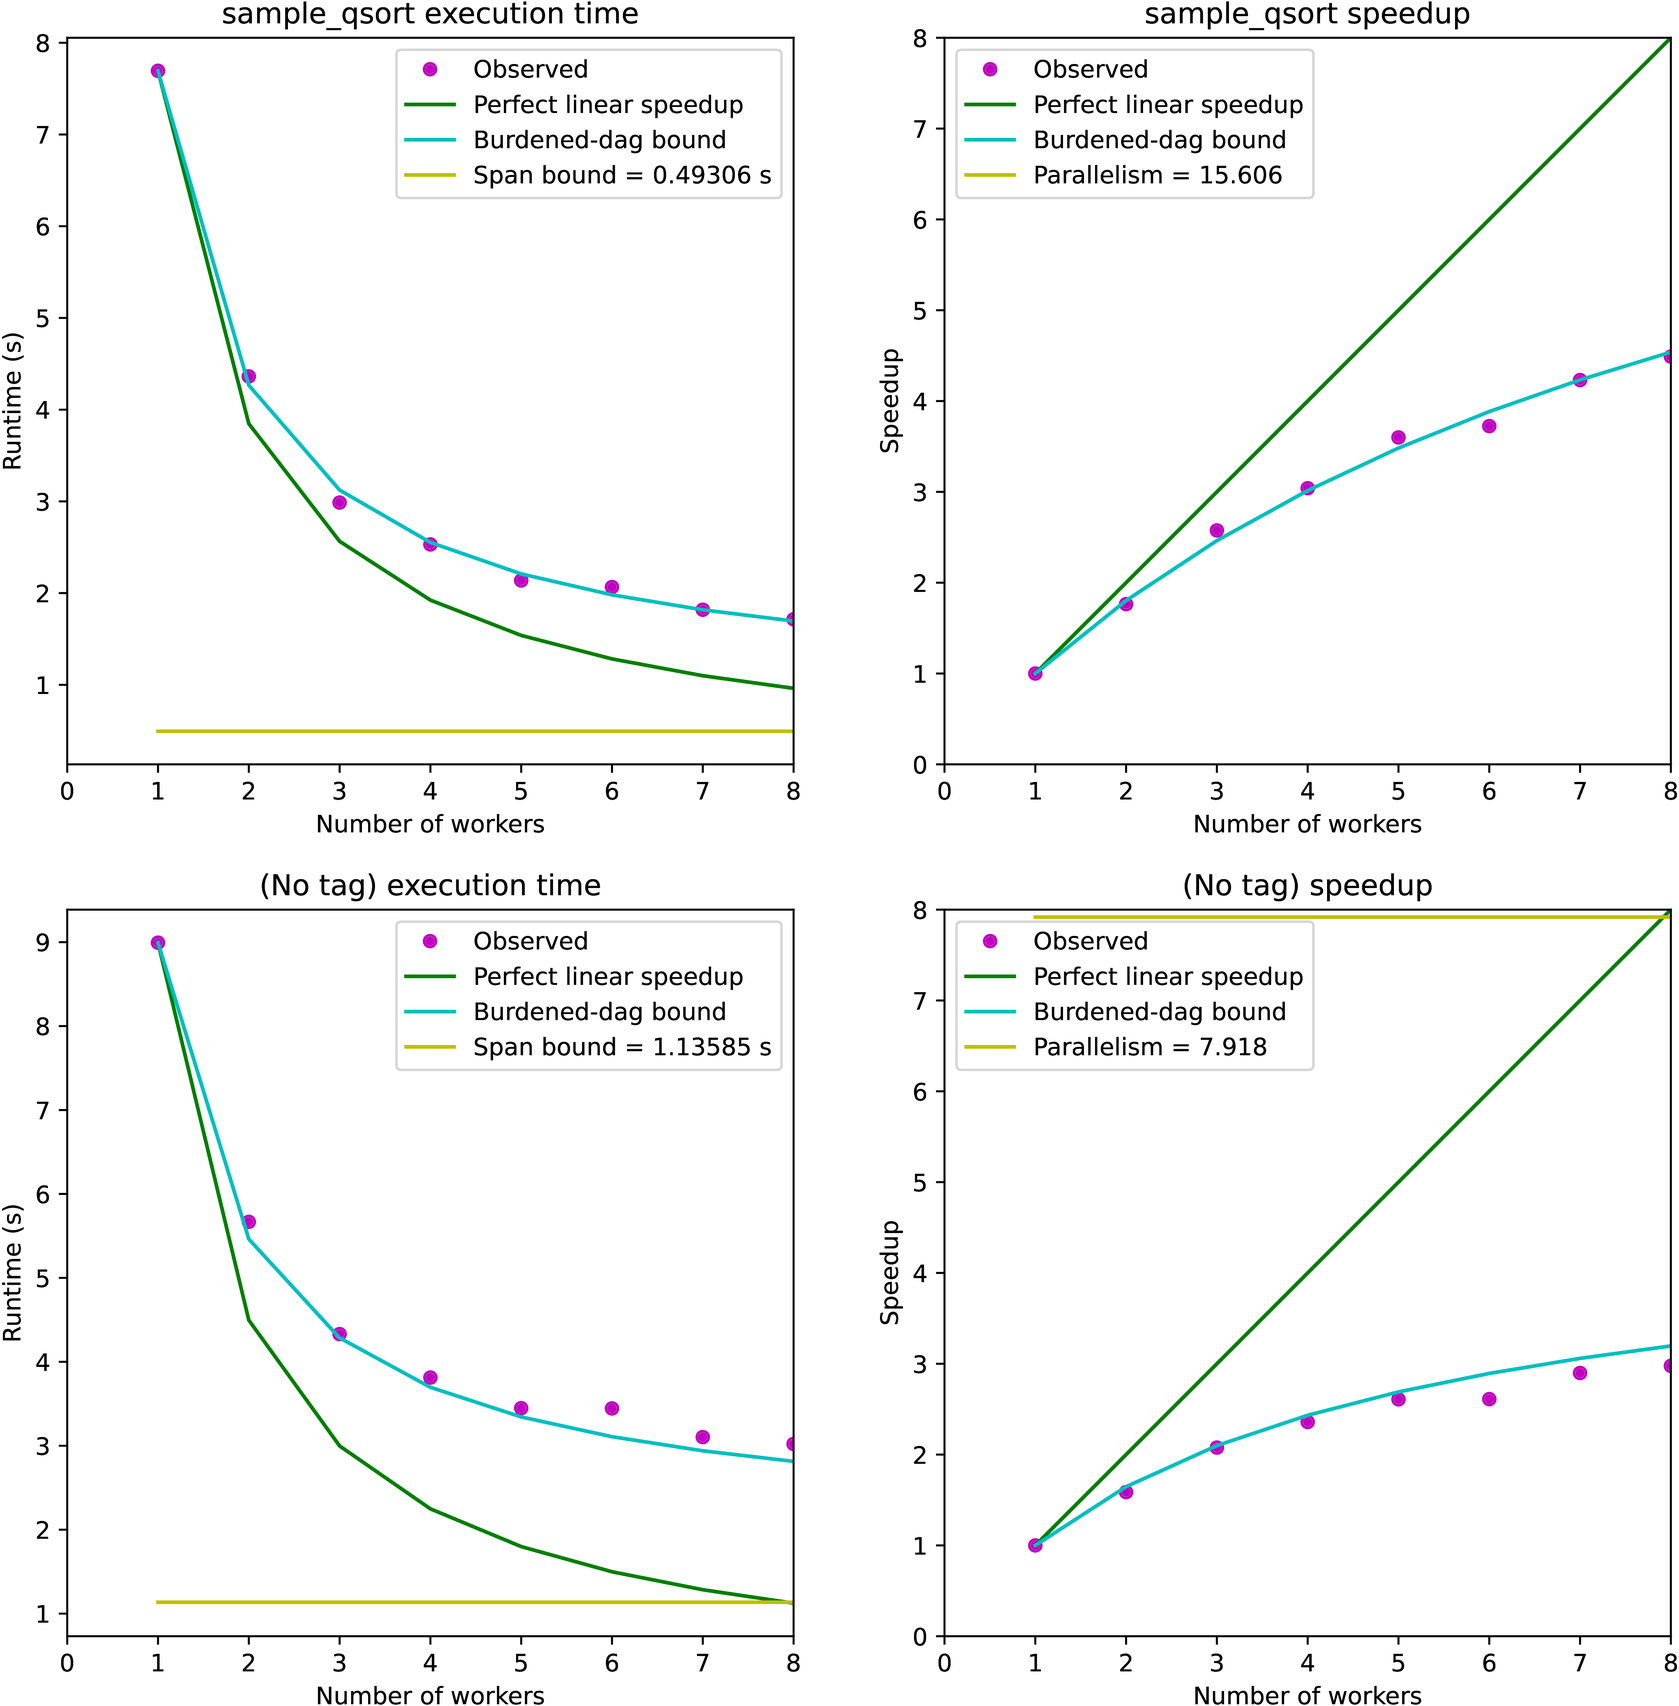
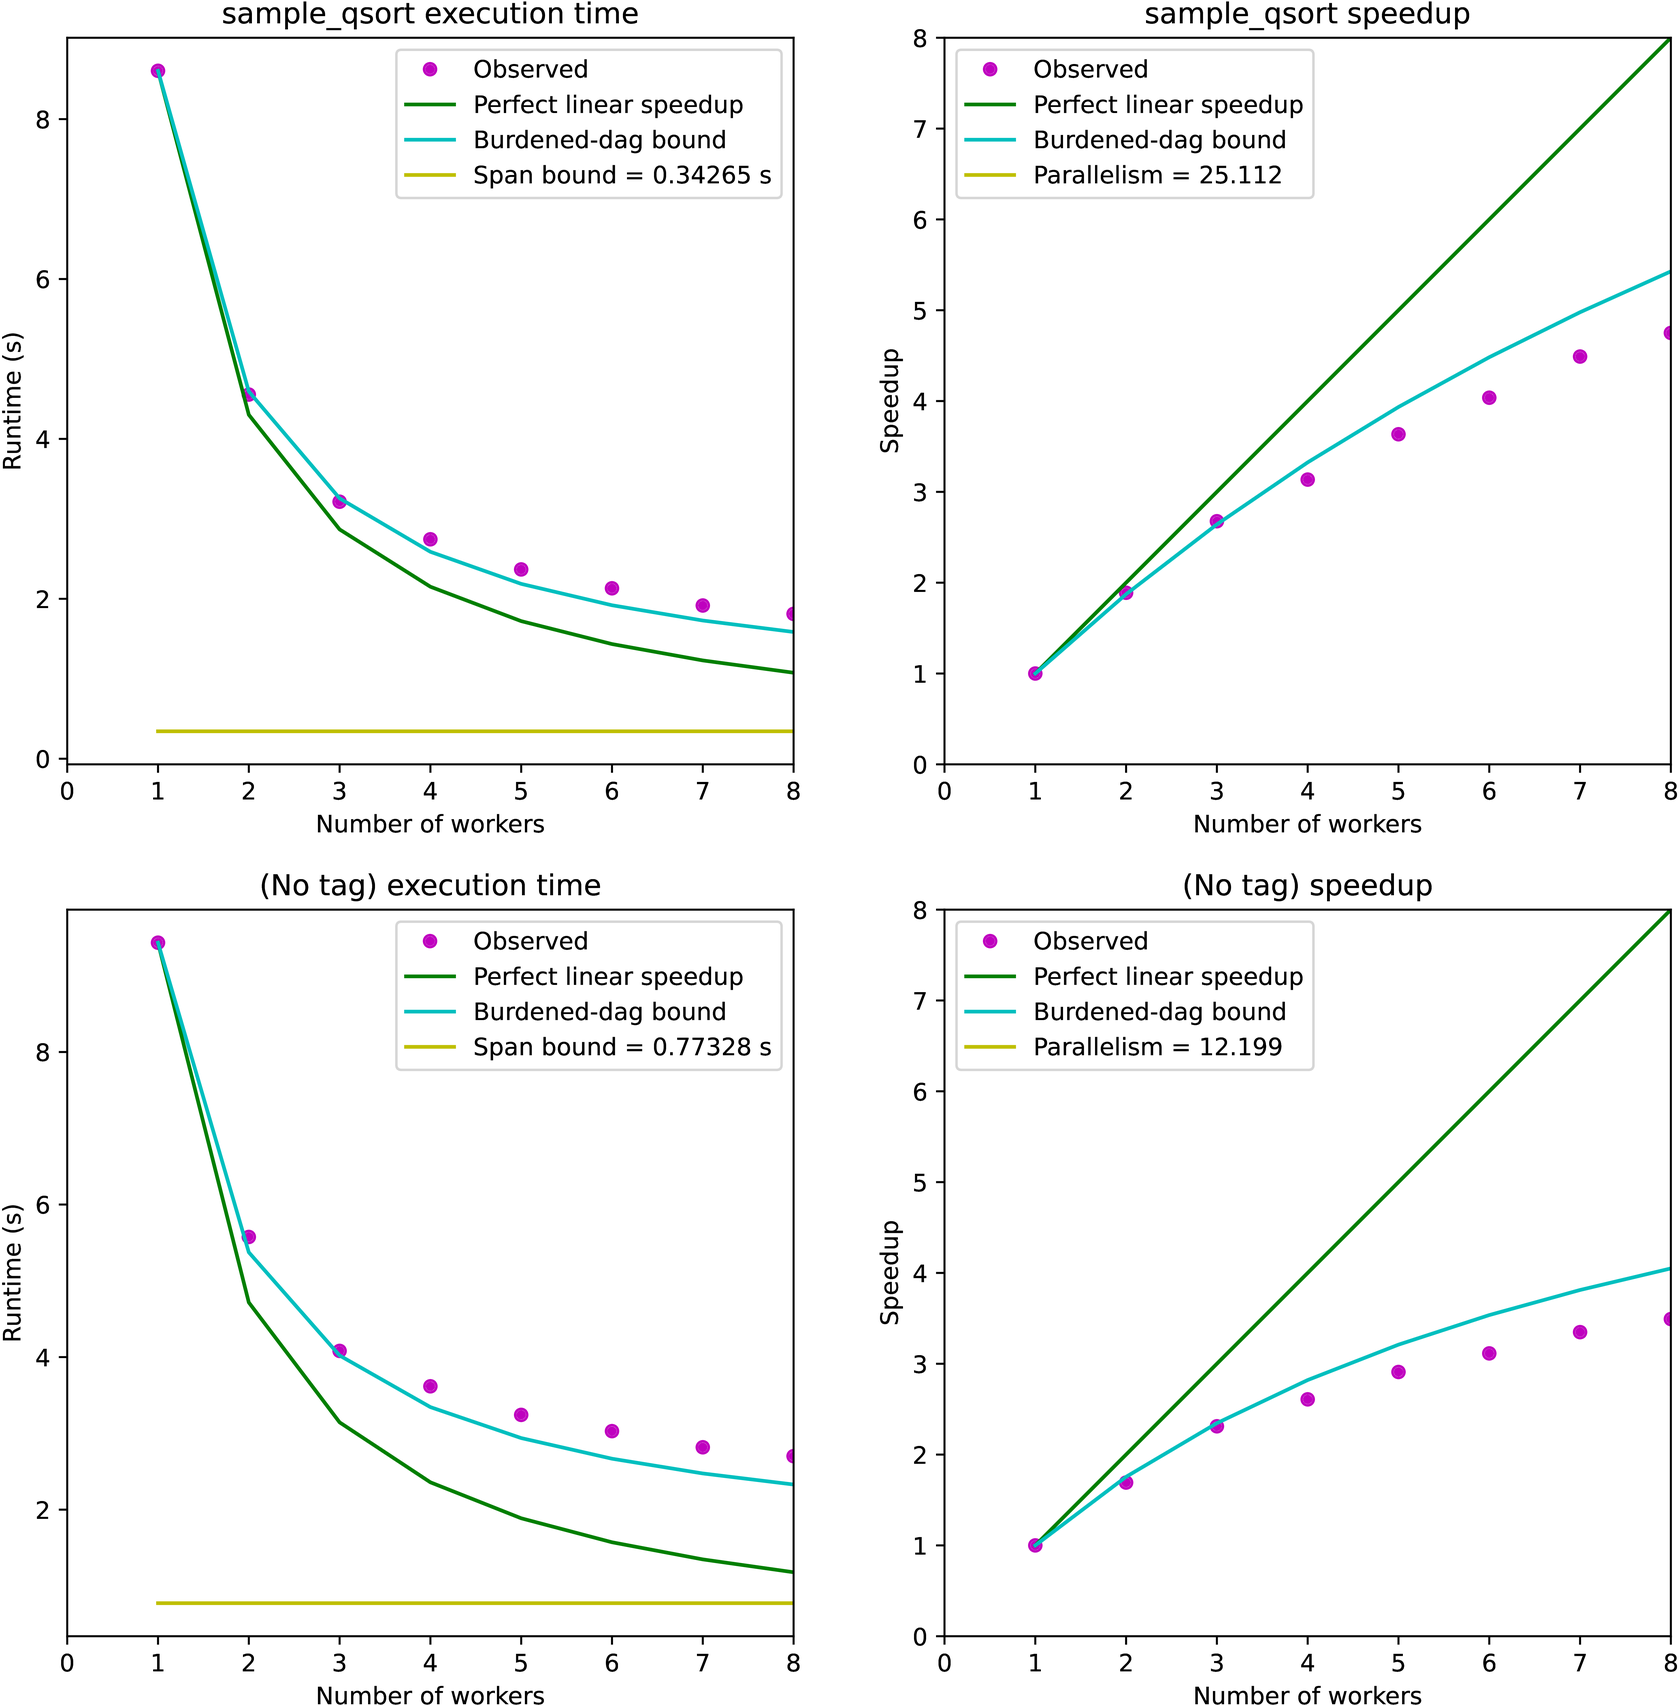
[Cilkscale] Revise user's guide
- Minor edits in initial sections for clarity
- Remove some distracting comments
- Rephrase discussion on Cilkscale Python script to avoid ambiguity on what
  "benchmarking" means
- Regenerate final Cilkscale table and plots, and update "insights" accordingly

diff --git a/src/doc/users-guide/cilkscale.md b/src/doc/users-guide/cilkscale.md
@@ -28,7 +28,7 @@ end of this guide, you will know how to generate performance and scalability
 tables and plots like the ones shown below and have a basic understanding of
 how to use them to diagnose parallel performance limitations of your
 application.  For details on the Cilkscale components, user options, and output
-information, see the [Cilkscale reference guide](/doc/reference/cilkscale).
+information, see the [Cilkscale reference page](/doc/reference/cilkscale).
 
 {% img "/img/qsort-cilkscale-scalability-plots-sample-qsort-only.png", "1000" %}
 
@@ -63,8 +63,8 @@ simple program, `qsort.cpp`, is shown below.
 ```
 
 The `qsort.cpp` program simply generates a vector of pseudorandom numbers,
-sorts it with the `sample_qsort()` function, and verifies the result.  We can
-compile and run it as follows.
+sorts it in parallel with the `sample_qsort()` function, and verifies the
+result.  We can compile and run it as follows.
 
 ```shell-session
 $ /opt/opencilk/bin/clang++ qsort.cpp -fopencilk -O3 -o qsort
@@ -79,8 +79,10 @@ Sort succeeded
 Cilkscale instruments your Cilk program to collect performance measurements
 during its execution.  Cilkscale instrumentation operates in one of two modes:
 
-- _benchmarking_ mode: Cilkscale measures the wall-clock execution time of your program. 
-- _work/span analysis_ mode: Cilkscale measures the {% defn "work" %}, {% defn "span" %}, and {% defn "parallelism" %} of the instrumented program.
+- _Benchmarking_ mode: Cilkscale measures the wall-clock execution time of your
+  program.
+- _Work/span analysis_ mode: Cilkscale measures the {% defn "work" %}, {% defn
+  "span" %}, and {% defn "parallelism" %} of your program.
 
 In either mode, you can use Cilkscale with two simple steps:
 
@@ -88,14 +90,16 @@ In either mode, you can use Cilkscale with two simple steps:
    flag](/doc/reference/cilkscale/#compiler-options-for-cilkscale-instrumentation)
    to the OpenCilk compiler when you compile and link your program.  The result
    is a Cilkscale-instrumented binary.
-2. Run the instrumented binary and observe the performance
-   measurements that Cilkscale collects and reports to the standard output. Your program otherwise runs as it normally would. 
-   (To output the report to a file, set the
+2. Run the instrumented binary.  Cilkscale collects performance measurements
+   and prints them to the standard output.  (To output the report to a file,
+   set the
    [`CILKSCALE_OUT`](/doc/reference/cilkscale/#cilkscale-report-output-file)
-   environment variable.)
+   environment variable.)  Your program otherwise runs as it normally would.
 
-By default, Cilkscale only reports results for whole-program execution.
-For fine-grained analyses of specific sub-computations of your program, see the next section.
+By default, Cilkscale only reports performance results for whole-program
+execution.  We will see how to perform fine-grained analyses of specific
+sub-computations in the next section, after we show how to use Cilkscale in
+benchmarking and work/span analysis mode.
 
 ### Benchmarking instrumentation
 
@@ -106,8 +110,8 @@ To benchmark your application with Cilkscale, pass the
 $ /opt/opencilk/bin/clang++ qsort.cpp -fopencilk -fcilktool=cilkscale-benchmark -O3 -o qsort_cs_bench
 ```
 
-Running the instrumented binary now produces the same output
-as before, followed by two lines with the timing results in [CSV
+Running the instrumented binary now produces the program output as before,
+followed by two lines with timing results in [CSV
 format](https://en.wikipedia.org/wiki/Comma-separated_values):
 
 ```shell-session
@@ -118,10 +122,9 @@ tag,time (seconds)
 ```
 
 The report table above contains a single, untagged row with the execution time
-for the entire program.  Below, we will see [how to use the Cilkscale
-API](#cilkscale-api-for-fine-grained-analysis-of-parallel-regions) to benchmark
-and analyze specific code regions, which would appear as additional rows in the
-Cilkscale report table.
+for the entire program.  We will see shortly that if we use the Cilkscale API
+for [fine-grained analysis](#fine-grained-analysis), then the report table will
+contain additional rows.
 
 ### Work/span analysis instrumentation
 
@@ -132,15 +135,8 @@ the `-fcilktool=cilkscale` flag to the OpenCilk compiler:
 $ /opt/opencilk/bin/clang++ qsort.cpp -fopencilk -fcilktool=cilkscale -O3 -o qsort_cs
 ```
 
-Measurements of work, span, and parallelism 
-depend on your program's input and {% defn "logical parallelism"
-%} but not on the number of processors on which it is run.  Cilkscale collects
-performance measurements during runtime and uses the {% defn "parallel trace"
-%} of your program for its analysis.  The [Cilkscale reference guide](/doc/reference/cilkscale/#workspan-analysis-measurements-reported-by-cilkscale)
-describes the specific quantities reported by Cilkscale.
-
-The Cilkscale work/span analysis report is printed in CSV format, similarly to
-the the Cilkscale benchmarking report but with different fields or columns:
+When you run the instrumented binary, the program output is followed by the
+Cilkscale work/span analysis report in CSV format:
 
 ```shell-session
 $ ./qsort_cs 100000000
@@ -149,6 +145,12 @@ tag,work (seconds),span (seconds),parallelism,burdened_span (seconds),burdened_p
 ,23.661,2.19196,10.7944,2.19226,10.793
 ```
 
+The work, span, and parallelism measurements in the report depend on your
+program's input and {% defn "logical parallelism" %} but not on the number of
+processors on which it is run.  The Cilkscale reference page describes the
+[specific quantities reported by
+Cilkscale](/doc/reference/cilkscale/#workspan-analysis-measurements-reported-by-cilkscale).
+
 As before, the reported measurements above are untagged and refer to
 whole-program execution.
 
@@ -156,25 +158,22 @@ whole-program execution.
 
 _**Note:**_ The Cilkscale-instrumented binary in work/span analysis mode is
 slower than its non-instrumented counterpart.  The slowdown is generally no
-larger than 10x and typically less than 2x.
-In the example above, `qsort_cs` was about 1.5x slower than
-`qsort` or `qsort_cs_bench` (3.4s vs. 2.3s).
+larger than 10x and typically less than 2x.  In the examples above, `qsort` and
+`qsort_cs_bench` took 2.3s while `qsort_cs` took 3.4s (slowdown = 1.5x).
 
 {% endalert %}
 
 
 ## Fine-grained analysis
 
-Cilkscale provides a [C/C++ API](/doc/reference/cilkscale/#cc++-api-for-fine-grained-workspan-analysis) for benchmarking or analyzing specific regions
-in a program.  The Cilkscale API allows you to focus on and distinguish between
-specific parallel regions of your computation when measuring its parallel
-performance and scalability.  Using the Cilkscale API is similar to using
-common C/C++ APIs for timing regions of interest (such as the C++ `std::chrono`
-library or the POSIX `clock_gettime()` function).
-
-The steps for [compiling and running the Cilkscale-instrumented
-binary](#benchmarking-and-workspan-analysis) are
-the same whether or not your program uses the Cilkscale API.
+Cilkscale provides a [C/C++
+API](/doc/reference/cilkscale/#cc++-api-for-fine-grained-workspan-analysis) for
+benchmarking or analyzing specific regions in a program.  The Cilkscale API
+allows you to focus on and distinguish between specific parallel regions of
+your computation when measuring its parallel performance and scalability.
+Using the Cilkscale API is similar to using common C/C++ APIs for timing
+regions of interest (such as the C++ `std::chrono` library or the POSIX
+`clock_gettime()` function).
 
 Let's see how we can use the Cilkscale API to analyze the execution of
 `sample_qsort()` function in our example quicksort application.  That is, we
@@ -207,8 +206,8 @@ achieve this, we make the following three changes to our code.
    wsp_dump(wsp_elapsed, "qsort_sample");
    ```
 
-Then, we save our edited code as `qsort_wsp.cpp`, compile it, and run as
-before:
+Then, we save our edited program as `qsort_wsp.cpp`, compile it with Cilkscale
+instrumentation as before, and run it:
 
 ```shell-session
 $ /opt/opencilk/bin/clang++ qsort_wsp.cpp -fopencilk -fcilktool=cilkscale -O3 -o qsort_wsp_cs
@@ -236,22 +235,31 @@ calls to the Cilkscale API are effectively ignored with zero overhead.
 
 {% endalert %}
 
-For more detailed information on the Cilkscale API, as well as an example of
-how to aggregate work/span analysis measurements from disjoint code regions,
-see the relevant section of the [Cilkscale reference guide](/doc/reference/cilkscale/#cc++-api-for-fine-grained-workspan-analysis).
+For more detailed information on the Cilkscale C/C++ API, as well as an example
+of how to aggregate work/span analysis measurements from disjoint code regions,
+see the relevant section of the [Cilkscale reference
+page](/doc/reference/cilkscale/#cc++-api-for-fine-grained-workspan-analysis).
 
 
-## Performance vs. number of processors
+## Automatic scalability benchmarks and visualization
 
-Cilkscale includes a Python script for analyzing your program on different numbers of CPU
-cores and visualizing both its benchmarking and work/span analyses.  The
-Cilkscale benchmarking and visualization Python script is found at
-`share/Cilkscale_vis/cilkscale.py` within the OpenCilk installation directory.
+Cilkscale includes a Python script which automates the process of benchmarking
+and analyzing the scalability of your Cilk program.  Specifically, the
+Cilkscale Python script helps you do the following:
+
+1. Collect work/span analysis measurements for your program.
+2. Benchmark your program on different numbers of processors and collect
+   empirical scalability measurements.
+3. Store the combined analysis and benchmarking results in a CSV table.
+4. Visualize the analysis and benchmarking results with informative execution
+   time and speedup plots.
+
+The Cilkscale Python script is found at `share/Cilkscale_vis/cilkscale.py`
+within the OpenCilk installation directory.
 
 {% alert "warning" %}
 
-_**Prerequisites:**_ To use the Cilkscale benchmarking and visualization Python
-script, you need:
+_**Prerequisites:**_ To use the Cilkscale Python script, you need:
 
 - [Python](https://www.python.org/downloads/) 3.8 or later.
 - (Optional) [matplotlib](https://pypi.org/project/matplotlib/) 3.5.0 or later;
@@ -264,7 +272,7 @@ script, you need:
 To use the `cilkscale.py` script, you must pass it two Cilkscale-instrumented
 binaries of your program — one with `-fcilktool=cilkscale-benchmark` and one with
 `-fcilktool=cilkscale` — along with a number of optional arguments.
-For a description of the `cilkscale.py` script's arguments, see the [Cilkscale reference guide](/doc/reference/cilkscale/).
+For a description of the `cilkscale.py` script's arguments, see the [Cilkscale reference page](/doc/reference/cilkscale/).
 
 Let's now see an example of using the `cilkscale.py` script to analyze and
 benchmark our `qsort_wsp.cpp` program, which uses the Cilkscale API to profile
@@ -276,9 +284,9 @@ $ /opt/opencilk/bin/clang++ qsort_wsp.cpp -fopencilk -fcilktool=cilkscale-benchm
 $ /opt/opencilk/bin/clang++ qsort_wsp.cpp -fopencilk -fcilktool=cilkscale -O3 -o qsort_cs
 ```
 
-Then, we run `cilkscale.py` with our instrumented binaries, a problem size of
-100,000,000, and options to set the output paths for the resulting CSV table
-and PDF document of visualization plots:
+Then, we run `cilkscale.py` with our instrumented binaries on a sequence of
+100,000,000 random integeres, and specify the output paths for the resulting
+CSV table and PDF document of visualization plots:
 
 ```shell-session
 $ python3 /opt/opencilk/share/Cilkscale_vis/cilkscale.py \
@@ -359,8 +367,8 @@ For example, the above run produced the following table:
 ```shell-session
 $ cat cstable_qsort.csv
 tag,work (seconds),span (seconds),parallelism,burdened_span (seconds),burdened_parallelism,1c time (seconds),2c time (seconds),3c time (seconds),4c time (seconds),5c time (seconds),6c time (seconds),7c time (seconds),8c time (seconds)
-sample_qsort,33.6945,1.55145,21.7181,1.55176,21.7138,7.90022,4.18091,3.12102,2.54729,2.25585,2.05149,1.75151,1.80027
-,35.4111,3.26805,10.8355,3.26837,10.8345,9.2498,5.5804,4.42004,3.9695,3.59468,3.41839,3.29919,3.16601
+sample_qsort,24.6038,0.979483,25.1192,0.97977,25.1118,8.60446,4.55467,3.21454,2.74446,2.36748,2.13149,1.91633,1.81146
+,25.7335,2.10917,12.2008,2.10945,12.1991,9.43337,5.57514,4.08113,3.61695,3.24241,3.02917,2.81753,2.70128
 ```
 
 ### Scalability plots
@@ -370,7 +378,8 @@ reported table.  These plots are stored the PDF file pointed to by the `-oplot`
 argument to `cilkscale.py`.  Specifically, Cilkscale produces two figures for
 each analyzed region (i.e., row in the CSV table): one which plots execution
 time and one which plots parallel speedup.  For a more detailed description of
-these plots' contents, see the [Cilkscale reference guide](/doc/reference/cilkscale/#performance-and-scalability-analysis-plots).
+these plots' contents, see the [Cilkscale reference
+page](/doc/reference/cilkscale/#performance-and-scalability-analysis-plots).
 
 Here are the plots in `csplots_qsort.pdf` for the above example:
 
@@ -382,22 +391,34 @@ Here are the plots in `csplots_qsort.pdf` for the above example:
 So what can we surmise about the parallel scalability of our `qsort.cpp`
 example, specifically the `sample_qsort()` function?  We observe the following:
 
-- Our program shows sub-linear scalability.  With $8$ processor cores, the
-  parallel speedup is only $4\times$.
-- The observed speedup measurements closely follow the burdened-dag bound.
-- The parallelism of `sample_qsort()` is small, only about twice as large as
-  the amount of cores on the laptop where the experiments were run.
+- Our program shows sub-linear scalability.  With 8 processor cores, the
+  parallel speedup is only about 4.7x.
+- The observed measurements roughly follow the burdened-dag bound and fall
+  short of it as the number of cores increases.
+- The parallelism of `sample_qsort()` is 25, which is only about three times as
+  large as the amount of cores on the laptop where the experiments were run.
 
 A main issue with our parallel `sample_qsort()` is that it does not exhibit
-sufficient parallelism.  As it is, we may only expect to see speedup with up to
-about $15$ cores.  Moreover, computations with insufficient {% defn "parallel
-slackness" %} are typically impacted adversely by scheduling and migration
-overheads.  As a rule of thumb, the parallelism of a computation is sufficient
-if it is about $10\times$ larger (or more) than the number of available
-processors.  On the other hand, if the parallelism is too high — say, several
-orders of magnitude higher than the number of processors — then it is often the
-case that the overhead for spawning tasks that are too fine-grained becomes
-substantial.
+sufficient parallelism.  The parallelism of a computation upper-bounds the
+number of processors that may productively work in parallel.  Moreover,
+computations with insufficient {% defn "parallel slackness" %} are typically
+impacted adversely by scheduling and migration overheads.  As a rule of thumb,
+the parallelism of a computation is deemed sufficient if it is about 10x larger
+(or more) than the number of available processors.  On the other hand, if the
+parallelism is too high — say, several orders of magnitude higher than the
+number of processors — then the overhead for spawning tasks that are too
+fine-grained may become substantial.  In our case, the parallelism is low and
+exhibits sufficient slackness for only 2–3 cores.
+
+An additional issue is that the memory bandwidth of the laptop that was used in
+these experiments becomes insufficient as more processing cores are used.  This
+is often the case for computations with low {% defn "arithmetic intensity" %}
+when the observed parallel speedup falls below the burdened-dag speedup bound.
+(Another possible cause for speedup below the burdened-dag bound is {% defn
+"contention" %} of parallel resources.)  The memory bandwidth ceiling was
+measured at about 24 GB/s with the
+[STREAM](https://www.cs.virginia.edu/stream/) "copy" benchmark in either serial
+or parallel mode.
 
 If we want to improve the parallel performance of `sample_qsort()`, it appears
 that our efforts, at least initially, are best spent increasing its
@@ -405,7 +426,7 @@ parallelism.  One way to do that might be to undo the {% defn "coarsening" %}
 of the base case (e.g., setting `BASE_CASE_LENGTH = 1`) but that makes the
 recursion too fine-grained and introduces unnecessary spawning overhead — that
 is, we may get better parallel speedup but slower execution overall.  The one
-remaining candidate then is the call to `std::partition()`, which is currently
+remaining option then is to parallelize `std::partition()`, which is currently
 serial and whose cost is linear with respect to the size of the input array.
 
 We will not cover parallel partition algorithms for quicksort here, but warn
